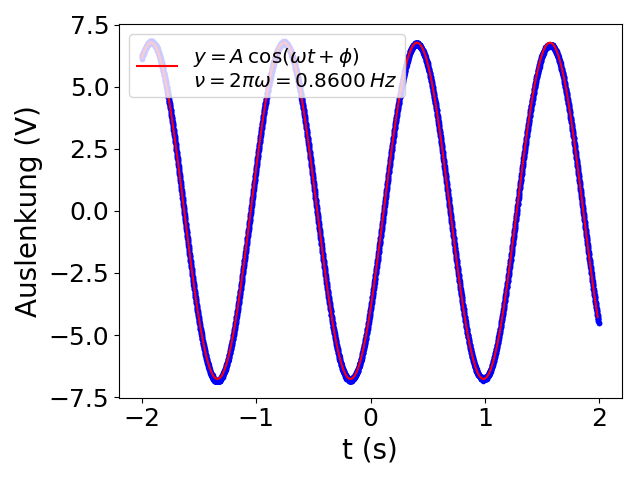
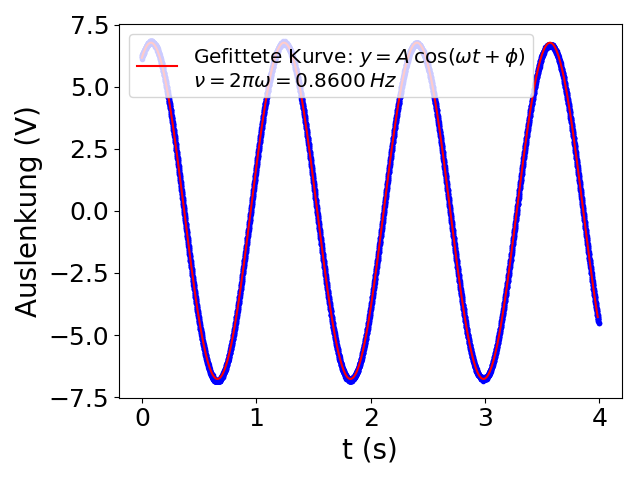
Zeitachse in den Plots korrigiert und gefilterte Daten geplottet

diff --git a/Versuch2/scripts/schwing_period.py b/Versuch2/scripts/schwing_period.py
@@ -22,7 +22,7 @@ def get_settings():
 
     general_sets.graph_format = ["b.","g.","r-","y--"]
     general_sets.fit_graph_format = "r-"
-    general_sets.fitted_graph_label = r"$y = A\:\cos(\omega t + \phi)\: e^{-\beta t}$"
+    general_sets.fitted_graph_label = "Gefittete Kurve: " + r"$y = A\:\cos(\omega t + \phi)\: e^{-\beta t}$"
     general_sets.graph_label = ""
     general_sets.axes_label_fontsize = 20
     
@@ -38,7 +38,7 @@ def get_settings():
     sets3 = general_sets.clone()
     #sets3.graph_format = "b."
     sets3.dataset_file_name = "T0029.csv"
-    sets3.fitted_graph_label = r"$y=A\:\cos(\omega t + \phi)$"
+    sets3.fitted_graph_label = "Gefittete Kurve: " + r"$y=A\:\cos(\omega t + \phi)$"
 
     return sets1,sets2,sets3
 
@@ -49,7 +49,8 @@ def smooth(data,filter_length):
 def get_data(sets):
     #reads data from datasets specified in Settings
     dataset = dm.csv_to_list(sets.dataset_folder + sets.dataset_file_name)
-    time = dm.return_column (dataset, title = sets.x_column_caption, title_index = sets.title_index)
+    time_not_from_zero = dm.return_column (dataset, title = sets.x_column_caption, title_index = sets.title_index)
+    time = np.array(time_not_from_zero) - time_not_from_zero[0]
     deviation = dm.return_column (dataset, title = sets.y_column_caption, title_index = sets.title_index)
     return time, deviation
 
@@ -77,8 +78,8 @@ def plot_dampf_smooth(sets,filter_length):
     print ("This is smooth covariance: " + str(smooth_cov))
     sets.graph_label = ["","",
                         r"$y = A\:\cos(\omega t + \phi)\: e^{-\beta t}$" + "\n"
-                        r"$\nu= 2\pi\omega = {:.4f} \:Hz,\ \beta = {:.9f}\:$".format(raw_params[1],raw_params[2]) + r"$s^{-1}$",
-                        r"$\nu= 2\pi\omega = {:.4f} \:Hz,\ \beta = {:.9f}\:$".format(smooth_params[1],smooth_params[2]) + r"$s^{-1}$"]
+                        r"$\nu= 2\pi\omega = {:.4f} \:Hz,\ \beta = {:.3f}\:$".format(raw_params[1],raw_params[2]) + r"$s^{-1}$",
+                        r"$\nu= 2\pi\omega = {:.4f} \:Hz,\ \beta = {:.3f}\:$".format(smooth_params[1],smooth_params[2]) + r"$s^{-1}$"]
     fig, ax = plot_multi_2(sets = sets, x_values = [time,time_smooth,x_fit,x_fit], y_values = [deviation,deviation_smooth,y_fit,y_fit_smooth])
 
 def plot_dampf(sets):
@@ -93,6 +94,8 @@ def plot_dampf(sets):
     offset = raw_params[-1]
     deviation = [d-offset for d in deviation_raw]
     raw_params[-1] = 0
+
+    sets.fitted_graph_label += "\n" + r"$\nu= 2\pi\omega = {:.4f} \:Hz,\ \beta = {:.3f}\:$".format(raw_params[1],raw_params[2]) + r"$s^{-1}$"
 
     fig, ax = plot(sets, time, deviation, f_to_fit = f, params = raw_params)
 
@@ -120,7 +123,6 @@ def plot_frei_smooth(sets,filter_length):
                         r"$\nu= 2\pi\omega = {:.4f} \:Hz$".format(smooth_params[1])]
     fig, ax = plot_multi_2(sets = sets, x_values = [time,time_smooth,x_fit,x_fit], y_values = [deviation,deviation_smooth,y_fit,y_fit_smooth])
 
-
 def plot_frei(sets):
     f = ft.cos_phase
     time, deviation = get_data(sets)
@@ -131,6 +133,8 @@ def plot_frei(sets):
     sets.fitted_graph_label += "\n" + r"$\nu= 2\pi\omega = {:.4f} \:Hz$".format(popt[1])
     fig, ax = plot(sets, time, deviation, f_to_fit = f, params = popt)
 
+
+'''============================================='''
 if __name__ == "__main__":
     smoothen = True
     filter_length = 20
